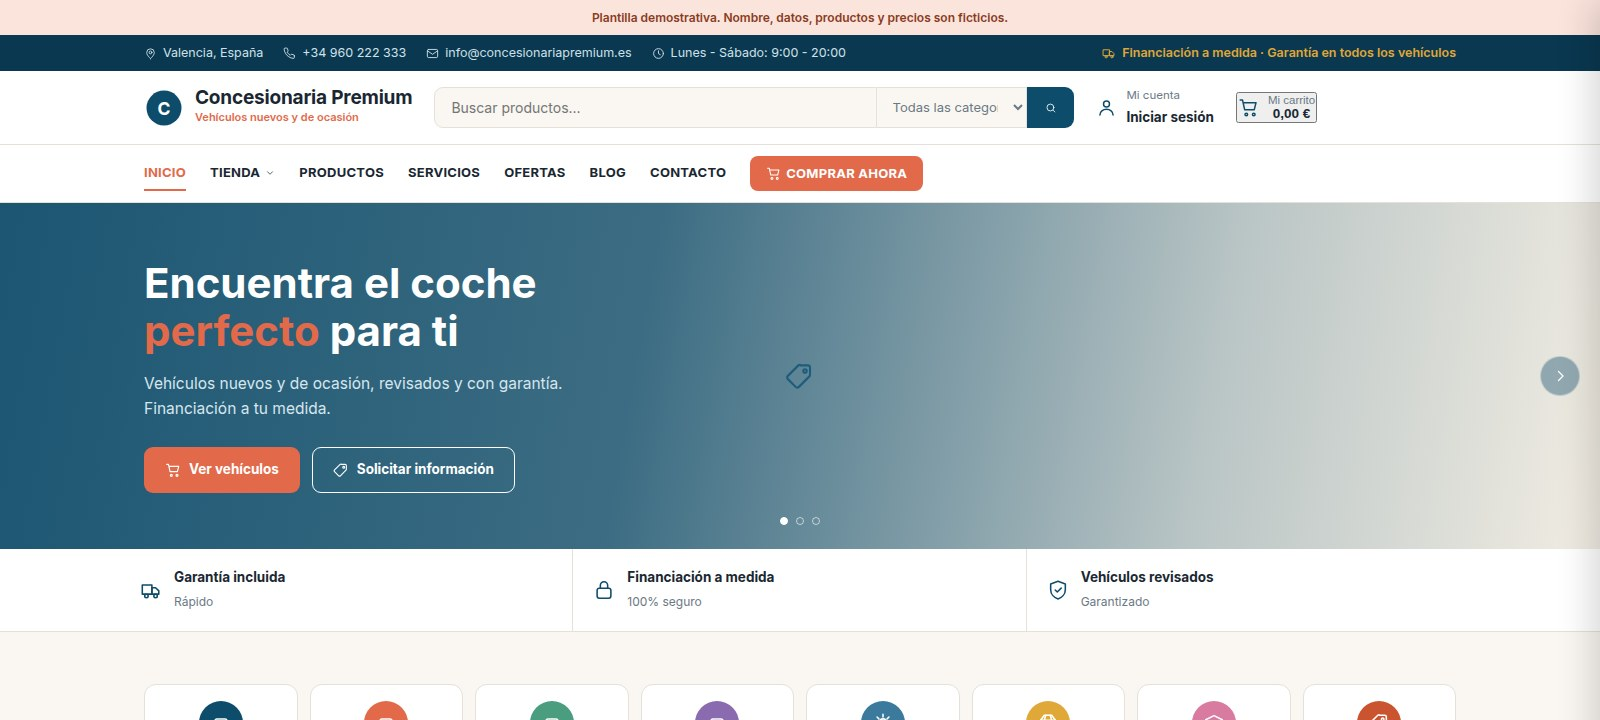
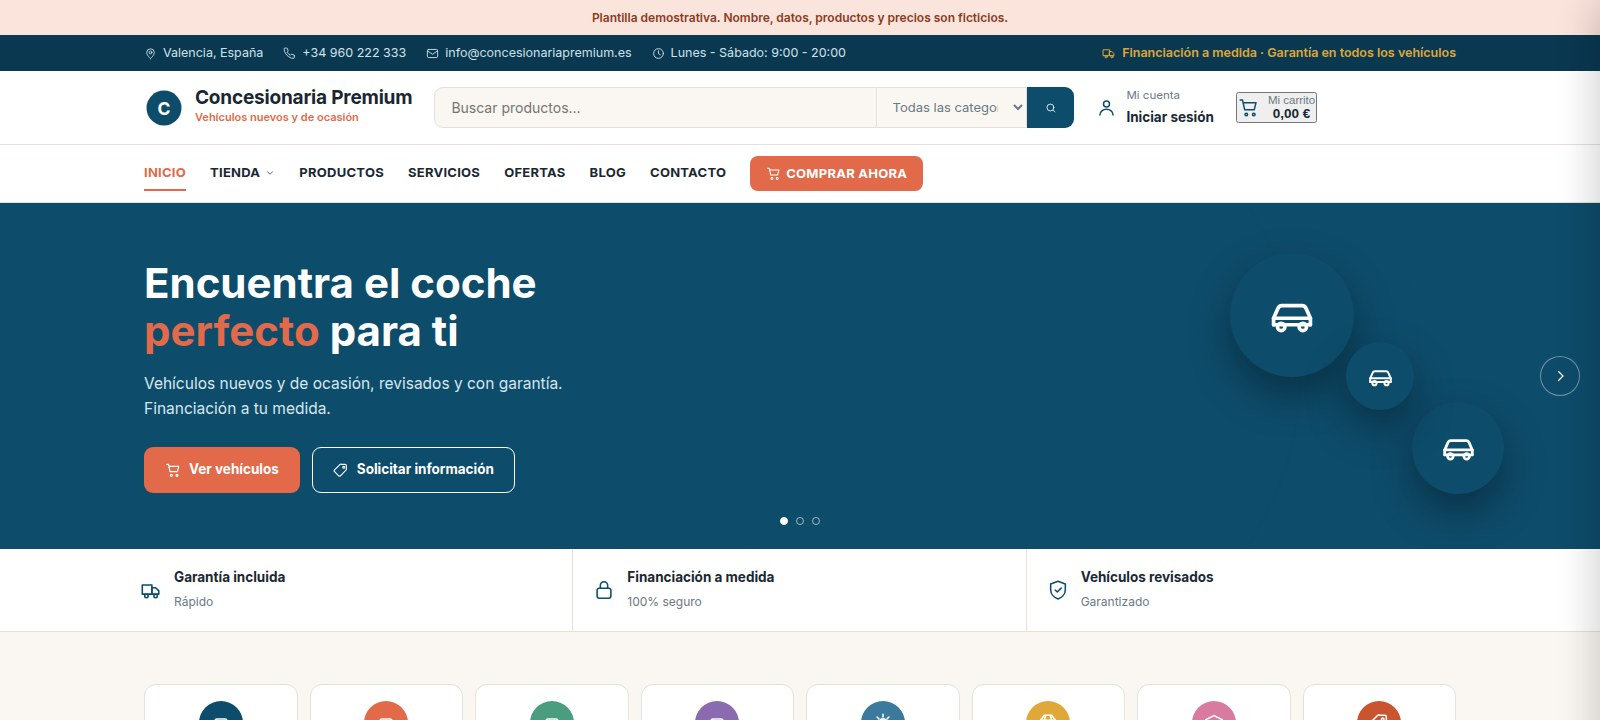
Mejora la portada de las 14 categorias tipo tienda: collage de iconos en vez de un solo icono plano

diff --git a/public/demos/concesionaria-premium/index.html b/public/demos/concesionaria-premium/index.html
@@ -68,8 +68,8 @@
 
 <!-- Portada -->
 <section class="portada" id="inicio">
-  <div class="portada-lienzo"><div style="width:100%;height:100%;display:flex;align-items:center;justify-content:center;background:var(--crema2);color:var(--azul-cla)"><svg width="30" height="30" viewBox="0 0 24 24" fill="none" stroke="currentColor" stroke-width="1.7" stroke-linecap="round" stroke-linejoin="round" aria-hidden="true"><path d="M12.5 3.5h5.7a1.8 1.8 0 0 1 1.8 1.8v5.7c0 .5-.2 1-.5 1.3l-8.4 8.4a1.8 1.8 0 0 1-2.6 0l-6.2-6.2a1.8 1.8 0 0 1 0-2.6l8.4-8.4c.3-.3.8-.5 1.3-.5z"/><circle cx="16" cy="8" r="1.4"/></svg></div></div>
-  <div class="portada-vel"></div>
+  <div class="portada-lienzo"><svg viewBox="0 0 800 560" preserveAspectRatio="xMidYMid slice" style="width:100%;height:100%" aria-hidden="true"><defs><radialGradient id="hg" cx="62%" cy="46%" r="55%"><stop offset="0%" stop-color="#0e4c6b" stop-opacity=".28"/><stop offset="100%" stop-color="#0e4c6b" stop-opacity="0"/></radialGradient></defs><rect width="800" height="560" fill="var(--azul)"/><circle cx="500" cy="280" r="260" fill="url(#hg)"/><circle cx="500" cy="280" r="210" fill="none" stroke="#0e4c6b" stroke-opacity=".18"/><circle cx="500" cy="280" r="150" fill="none" stroke="#0e4c6b" stroke-opacity=".12"/></svg></div>
+  <div class="portada-figuras" aria-hidden="true"><span class="figura figura-0" style="width:124px;height:124px;background:#0e4c6b"><svg width="52" height="52" viewBox="0 0 24 24" fill="none" stroke="currentColor" stroke-width="1.7" stroke-linecap="round" stroke-linejoin="round" aria-hidden="true"><path d="M3.5 16.5v-3l2-4.5a2 2 0 0 1 1.9-1.3h9.2a2 2 0 0 1 1.9 1.3l2 4.5v3"/><path d="M3.5 16.5h17M3.5 13.5h17"/><circle cx="7" cy="17.5" r="1.7"/><circle cx="17" cy="17.5" r="1.7"/></svg></span><span class="figura figura-1" style="width:92px;height:92px;background:#0e4c6b"><svg width="39" height="39" viewBox="0 0 24 24" fill="none" stroke="currentColor" stroke-width="1.7" stroke-linecap="round" stroke-linejoin="round" aria-hidden="true"><path d="M3.5 16.5v-3l2-4.5a2 2 0 0 1 1.9-1.3h9.2a2 2 0 0 1 1.9 1.3l2 4.5v3"/><path d="M3.5 16.5h17M3.5 13.5h17"/><circle cx="7" cy="17.5" r="1.7"/><circle cx="17" cy="17.5" r="1.7"/></svg></span><span class="figura figura-2" style="width:68px;height:68px;background:#0e4c6b"><svg width="29" height="29" viewBox="0 0 24 24" fill="none" stroke="currentColor" stroke-width="1.7" stroke-linecap="round" stroke-linejoin="round" aria-hidden="true"><path d="M3.5 16.5v-3l2-4.5a2 2 0 0 1 1.9-1.3h9.2a2 2 0 0 1 1.9 1.3l2 4.5v3"/><path d="M3.5 16.5h17M3.5 13.5h17"/><circle cx="7" cy="17.5" r="1.7"/><circle cx="17" cy="17.5" r="1.7"/></svg></span></div>  <div class="portada-vel"></div>
   <div class="env">
     <div class="portada-in">
       <h1>Encuentra el coche <em>perfecto</em> para ti</h1>

diff --git a/public/demos/alquiler-coches-premium/index.html b/public/demos/alquiler-coches-premium/index.html
@@ -68,8 +68,8 @@
 
 <!-- Portada -->
 <section class="portada" id="inicio">
-  <div class="portada-lienzo"><div style="width:100%;height:100%;display:flex;align-items:center;justify-content:center;background:var(--crema2);color:var(--azul-cla)"><svg width="30" height="30" viewBox="0 0 24 24" fill="none" stroke="currentColor" stroke-width="1.7" stroke-linecap="round" stroke-linejoin="round" aria-hidden="true"><path d="M12.5 3.5h5.7a1.8 1.8 0 0 1 1.8 1.8v5.7c0 .5-.2 1-.5 1.3l-8.4 8.4a1.8 1.8 0 0 1-2.6 0l-6.2-6.2a1.8 1.8 0 0 1 0-2.6l8.4-8.4c.3-.3.8-.5 1.3-.5z"/><circle cx="16" cy="8" r="1.4"/></svg></div></div>
-  <div class="portada-vel"></div>
+  <div class="portada-lienzo"><svg viewBox="0 0 800 560" preserveAspectRatio="xMidYMid slice" style="width:100%;height:100%" aria-hidden="true"><defs><radialGradient id="hg" cx="62%" cy="46%" r="55%"><stop offset="0%" stop-color="#e0a838" stop-opacity=".28"/><stop offset="100%" stop-color="#e0a838" stop-opacity="0"/></radialGradient></defs><rect width="800" height="560" fill="var(--azul)"/><circle cx="500" cy="280" r="260" fill="url(#hg)"/><circle cx="500" cy="280" r="210" fill="none" stroke="#e0a838" stroke-opacity=".18"/><circle cx="500" cy="280" r="150" fill="none" stroke="#e0a838" stroke-opacity=".12"/></svg></div>
+  <div class="portada-figuras" aria-hidden="true"><span class="figura figura-0" style="width:124px;height:124px;background:#e0a838"><svg width="52" height="52" viewBox="0 0 24 24" fill="none" stroke="currentColor" stroke-width="1.7" stroke-linecap="round" stroke-linejoin="round" aria-hidden="true"><path d="M3.5 16.5v-3l2-4.5a2 2 0 0 1 1.9-1.3h9.2a2 2 0 0 1 1.9 1.3l2 4.5v3"/><path d="M3.5 16.5h17M3.5 13.5h17"/><circle cx="7" cy="17.5" r="1.7"/><circle cx="17" cy="17.5" r="1.7"/></svg></span><span class="figura figura-1" style="width:92px;height:92px;background:#e0a838"><svg width="39" height="39" viewBox="0 0 24 24" fill="none" stroke="currentColor" stroke-width="1.7" stroke-linecap="round" stroke-linejoin="round" aria-hidden="true"><path d="M3.5 16.5v-3l2-4.5a2 2 0 0 1 1.9-1.3h9.2a2 2 0 0 1 1.9 1.3l2 4.5v3"/><path d="M3.5 16.5h17M3.5 13.5h17"/><circle cx="7" cy="17.5" r="1.7"/><circle cx="17" cy="17.5" r="1.7"/></svg></span><span class="figura figura-2" style="width:68px;height:68px;background:#e0a838"><svg width="29" height="29" viewBox="0 0 24 24" fill="none" stroke="currentColor" stroke-width="1.7" stroke-linecap="round" stroke-linejoin="round" aria-hidden="true"><path d="M3.5 16.5v-3l2-4.5a2 2 0 0 1 1.9-1.3h9.2a2 2 0 0 1 1.9 1.3l2 4.5v3"/><path d="M3.5 16.5h17M3.5 13.5h17"/><circle cx="7" cy="17.5" r="1.7"/><circle cx="17" cy="17.5" r="1.7"/></svg></span></div>  <div class="portada-vel"></div>
   <div class="env">
     <div class="portada-in">
       <h1>Tu viaje, <em>nuestra</em> pasión</h1>

diff --git a/public/demos/pesca-premium/index.html b/public/demos/pesca-premium/index.html
@@ -68,8 +68,8 @@
 
 <!-- Portada -->
 <section class="portada" id="inicio">
-  <div class="portada-lienzo"><div style="width:100%;height:100%;display:flex;align-items:center;justify-content:center;background:var(--crema2);color:var(--azul-cla)"><svg width="30" height="30" viewBox="0 0 24 24" fill="none" stroke="currentColor" stroke-width="1.7" stroke-linecap="round" stroke-linejoin="round" aria-hidden="true"><path d="M12.5 3.5h5.7a1.8 1.8 0 0 1 1.8 1.8v5.7c0 .5-.2 1-.5 1.3l-8.4 8.4a1.8 1.8 0 0 1-2.6 0l-6.2-6.2a1.8 1.8 0 0 1 0-2.6l8.4-8.4c.3-.3.8-.5 1.3-.5z"/><circle cx="16" cy="8" r="1.4"/></svg></div></div>
-  <div class="portada-vel"></div>
+  <div class="portada-lienzo"><svg viewBox="0 0 800 560" preserveAspectRatio="xMidYMid slice" style="width:100%;height:100%" aria-hidden="true"><defs><radialGradient id="hg" cx="62%" cy="46%" r="55%"><stop offset="0%" stop-color="#0e4c6b" stop-opacity=".28"/><stop offset="100%" stop-color="#0e4c6b" stop-opacity="0"/></radialGradient></defs><rect width="800" height="560" fill="var(--azul)"/><circle cx="500" cy="280" r="260" fill="url(#hg)"/><circle cx="500" cy="280" r="210" fill="none" stroke="#0e4c6b" stroke-opacity=".18"/><circle cx="500" cy="280" r="150" fill="none" stroke="#0e4c6b" stroke-opacity=".12"/></svg></div>
+  <div class="portada-figuras" aria-hidden="true"><span class="figura figura-0" style="width:124px;height:124px;background:#0e4c6b"><svg width="52" height="52" viewBox="0 0 24 24" fill="none" stroke="currentColor" stroke-width="1.7" stroke-linecap="round" stroke-linejoin="round" aria-hidden="true"><path d="M3 12c3-4 8-6 12-4.5 2 .7 4 2.4 6 4.5-2 2.1-4 3.8-6 4.5-4 1.5-9-.5-12-4.5z"/><path d="M15 8.5 18 5M15 15.5l3 3"/><circle cx="7.5" cy="11" r="1"/></svg></span><span class="figura figura-1" style="width:92px;height:92px;background:#0e4c6b"><svg width="39" height="39" viewBox="0 0 24 24" fill="none" stroke="currentColor" stroke-width="1.7" stroke-linecap="round" stroke-linejoin="round" aria-hidden="true"><path d="M3 12c3-4 8-6 12-4.5 2 .7 4 2.4 6 4.5-2 2.1-4 3.8-6 4.5-4 1.5-9-.5-12-4.5z"/><path d="M15 8.5 18 5M15 15.5l3 3"/><circle cx="7.5" cy="11" r="1"/></svg></span><span class="figura figura-2" style="width:68px;height:68px;background:#0e4c6b"><svg width="29" height="29" viewBox="0 0 24 24" fill="none" stroke="currentColor" stroke-width="1.7" stroke-linecap="round" stroke-linejoin="round" aria-hidden="true"><path d="M3 12c3-4 8-6 12-4.5 2 .7 4 2.4 6 4.5-2 2.1-4 3.8-6 4.5-4 1.5-9-.5-12-4.5z"/><path d="M15 8.5 18 5M15 15.5l3 3"/><circle cx="7.5" cy="11" r="1"/></svg></span></div>  <div class="portada-vel"></div>
   <div class="env">
     <div class="portada-in">
       <h1>Todo lo que <em>necesitas</em> para pescar</h1>

diff --git a/public/demos/perfumeria-premium/index.html b/public/demos/perfumeria-premium/index.html
@@ -68,8 +68,8 @@
 
 <!-- Portada -->
 <section class="portada" id="inicio">
-  <div class="portada-lienzo"><div style="width:100%;height:100%;display:flex;align-items:center;justify-content:center;background:var(--crema2);color:var(--azul-cla)"><svg width="30" height="30" viewBox="0 0 24 24" fill="none" stroke="currentColor" stroke-width="1.7" stroke-linecap="round" stroke-linejoin="round" aria-hidden="true"><path d="M12.5 3.5h5.7a1.8 1.8 0 0 1 1.8 1.8v5.7c0 .5-.2 1-.5 1.3l-8.4 8.4a1.8 1.8 0 0 1-2.6 0l-6.2-6.2a1.8 1.8 0 0 1 0-2.6l8.4-8.4c.3-.3.8-.5 1.3-.5z"/><circle cx="16" cy="8" r="1.4"/></svg></div></div>
-  <div class="portada-vel"></div>
+  <div class="portada-lienzo"><svg viewBox="0 0 800 560" preserveAspectRatio="xMidYMid slice" style="width:100%;height:100%" aria-hidden="true"><defs><radialGradient id="hg" cx="62%" cy="46%" r="55%"><stop offset="0%" stop-color="#d97ba0" stop-opacity=".28"/><stop offset="100%" stop-color="#d97ba0" stop-opacity="0"/></radialGradient></defs><rect width="800" height="560" fill="var(--azul)"/><circle cx="500" cy="280" r="260" fill="url(#hg)"/><circle cx="500" cy="280" r="210" fill="none" stroke="#d97ba0" stroke-opacity=".18"/><circle cx="500" cy="280" r="150" fill="none" stroke="#d97ba0" stroke-opacity=".12"/></svg></div>
+  <div class="portada-figuras" aria-hidden="true"><span class="figura figura-0" style="width:124px;height:124px;background:#d97ba0"><svg width="52" height="52" viewBox="0 0 24 24" fill="none" stroke="currentColor" stroke-width="1.7" stroke-linecap="round" stroke-linejoin="round" aria-hidden="true"><path d="M10 2.5h4v2.8l1.8 2.2c.5.6.7 1.3.7 2.1v9.4a2.5 2.5 0 0 1-2.5 2.5h-4a2.5 2.5 0 0 1-2.5-2.5V9.6c0-.8.2-1.5.7-2.1L10 5.3z"/><path d="M9.5 12.5h5"/></svg></span><span class="figura figura-1" style="width:92px;height:92px;background:#d97ba0"><svg width="39" height="39" viewBox="0 0 24 24" fill="none" stroke="currentColor" stroke-width="1.7" stroke-linecap="round" stroke-linejoin="round" aria-hidden="true"><path d="M10 2.5h4v2.8l1.8 2.2c.5.6.7 1.3.7 2.1v9.4a2.5 2.5 0 0 1-2.5 2.5h-4a2.5 2.5 0 0 1-2.5-2.5V9.6c0-.8.2-1.5.7-2.1L10 5.3z"/><path d="M9.5 12.5h5"/></svg></span><span class="figura figura-2" style="width:68px;height:68px;background:#d97ba0"><svg width="29" height="29" viewBox="0 0 24 24" fill="none" stroke="currentColor" stroke-width="1.7" stroke-linecap="round" stroke-linejoin="round" aria-hidden="true"><path d="M10 2.5h4v2.8l1.8 2.2c.5.6.7 1.3.7 2.1v9.4a2.5 2.5 0 0 1-2.5 2.5h-4a2.5 2.5 0 0 1-2.5-2.5V9.6c0-.8.2-1.5.7-2.1L10 5.3z"/><path d="M9.5 12.5h5"/></svg></span></div>  <div class="portada-vel"></div>
   <div class="env">
     <div class="portada-in">
       <h1>Encuentra tu <em>fragancia</em> perfecta</h1>

diff --git a/public/demos/energia-solar-premium/index.html b/public/demos/energia-solar-premium/index.html
@@ -68,8 +68,8 @@
 
 <!-- Portada -->
 <section class="portada" id="inicio">
-  <div class="portada-lienzo"><div style="width:100%;height:100%;display:flex;align-items:center;justify-content:center;background:var(--crema2);color:var(--azul-cla)"><svg width="30" height="30" viewBox="0 0 24 24" fill="none" stroke="currentColor" stroke-width="1.7" stroke-linecap="round" stroke-linejoin="round" aria-hidden="true"><path d="M12.5 3.5h5.7a1.8 1.8 0 0 1 1.8 1.8v5.7c0 .5-.2 1-.5 1.3l-8.4 8.4a1.8 1.8 0 0 1-2.6 0l-6.2-6.2a1.8 1.8 0 0 1 0-2.6l8.4-8.4c.3-.3.8-.5 1.3-.5z"/><circle cx="16" cy="8" r="1.4"/></svg></div></div>
-  <div class="portada-vel"></div>
+  <div class="portada-lienzo"><svg viewBox="0 0 800 560" preserveAspectRatio="xMidYMid slice" style="width:100%;height:100%" aria-hidden="true"><defs><radialGradient id="hg" cx="62%" cy="46%" r="55%"><stop offset="0%" stop-color="#e0a838" stop-opacity=".28"/><stop offset="100%" stop-color="#e0a838" stop-opacity="0"/></radialGradient></defs><rect width="800" height="560" fill="var(--azul)"/><circle cx="500" cy="280" r="260" fill="url(#hg)"/><circle cx="500" cy="280" r="210" fill="none" stroke="#e0a838" stroke-opacity=".18"/><circle cx="500" cy="280" r="150" fill="none" stroke="#e0a838" stroke-opacity=".12"/></svg></div>
+  <div class="portada-figuras" aria-hidden="true"><span class="figura figura-0" style="width:124px;height:124px;background:#e0a838"><svg width="52" height="52" viewBox="0 0 24 24" fill="none" stroke="currentColor" stroke-width="1.7" stroke-linecap="round" stroke-linejoin="round" aria-hidden="true"><circle cx="12" cy="12" r="4.5"/><path d="M12 2.5v3M12 18.5v3M21.5 12h-3M5.5 12h-3M18.5 5.5l-2 2M7.5 16.5l-2 2M18.5 18.5l-2-2M7.5 7.5l-2-2"/></svg></span><span class="figura figura-1" style="width:92px;height:92px;background:#e0a838"><svg width="39" height="39" viewBox="0 0 24 24" fill="none" stroke="currentColor" stroke-width="1.7" stroke-linecap="round" stroke-linejoin="round" aria-hidden="true"><path d="M9 18.5h6M9.5 21h5"/><path d="M12 3.5a6 6 0 0 0-3.4 10.9c.6.4 1 1.1 1 1.9v.7h4.8v-.7c0-.8.4-1.5 1-1.9A6 6 0 0 0 12 3.5z"/></svg></span><span class="figura figura-2" style="width:68px;height:68px;background:#e0a838"><svg width="29" height="29" viewBox="0 0 24 24" fill="none" stroke="currentColor" stroke-width="1.7" stroke-linecap="round" stroke-linejoin="round" aria-hidden="true"><path d="M9 18.5h6M9.5 21h5"/><path d="M12 3.5a6 6 0 0 0-3.4 10.9c.6.4 1 1.1 1 1.9v.7h4.8v-.7c0-.8.4-1.5 1-1.9A6 6 0 0 0 12 3.5z"/></svg></span></div>  <div class="portada-vel"></div>
   <div class="env">
     <div class="portada-in">
       <h1>Energía solar <em>para un futuro</em> más sostenible</h1>

diff --git a/public/demos/electronica-premium/index.html b/public/demos/electronica-premium/index.html
@@ -68,8 +68,8 @@
 
 <!-- Portada -->
 <section class="portada" id="inicio">
-  <div class="portada-lienzo"><div style="width:100%;height:100%;display:flex;align-items:center;justify-content:center;background:var(--crema2);color:var(--azul-cla)"><svg width="30" height="30" viewBox="0 0 24 24" fill="none" stroke="currentColor" stroke-width="1.7" stroke-linecap="round" stroke-linejoin="round" aria-hidden="true"><path d="M12.5 3.5h5.7a1.8 1.8 0 0 1 1.8 1.8v5.7c0 .5-.2 1-.5 1.3l-8.4 8.4a1.8 1.8 0 0 1-2.6 0l-6.2-6.2a1.8 1.8 0 0 1 0-2.6l8.4-8.4c.3-.3.8-.5 1.3-.5z"/><circle cx="16" cy="8" r="1.4"/></svg></div></div>
-  <div class="portada-vel"></div>
+  <div class="portada-lienzo"><svg viewBox="0 0 800 560" preserveAspectRatio="xMidYMid slice" style="width:100%;height:100%" aria-hidden="true"><defs><radialGradient id="hg" cx="62%" cy="46%" r="55%"><stop offset="0%" stop-color="#0e4c6b" stop-opacity=".28"/><stop offset="100%" stop-color="#0e4c6b" stop-opacity="0"/></radialGradient></defs><rect width="800" height="560" fill="var(--azul)"/><circle cx="500" cy="280" r="260" fill="url(#hg)"/><circle cx="500" cy="280" r="210" fill="none" stroke="#0e4c6b" stroke-opacity=".18"/><circle cx="500" cy="280" r="150" fill="none" stroke="#0e4c6b" stroke-opacity=".12"/></svg></div>
+  <div class="portada-figuras" aria-hidden="true"><span class="figura figura-0" style="width:124px;height:124px;background:#0e4c6b"><svg width="52" height="52" viewBox="0 0 24 24" fill="none" stroke="currentColor" stroke-width="1.7" stroke-linecap="round" stroke-linejoin="round" aria-hidden="true"><path d="M9 18.5h6M9.5 21h5"/><path d="M12 3.5a6 6 0 0 0-3.4 10.9c.6.4 1 1.1 1 1.9v.7h4.8v-.7c0-.8.4-1.5 1-1.9A6 6 0 0 0 12 3.5z"/></svg></span><span class="figura figura-1" style="width:92px;height:92px;background:#0e4c6b"><svg width="39" height="39" viewBox="0 0 24 24" fill="none" stroke="currentColor" stroke-width="1.7" stroke-linecap="round" stroke-linejoin="round" aria-hidden="true"><path d="M3 8.5 12 4l9 4.5-9 4.5-9-4.5z"/><path d="M3 8.5v7L12 20l9-4.5v-7"/><path d="M12 13v7"/></svg></span><span class="figura figura-2" style="width:68px;height:68px;background:#0e4c6b"><svg width="29" height="29" viewBox="0 0 24 24" fill="none" stroke="currentColor" stroke-width="1.7" stroke-linecap="round" stroke-linejoin="round" aria-hidden="true"><path d="M9 18.5h6M9.5 21h5"/><path d="M12 3.5a6 6 0 0 0-3.4 10.9c.6.4 1 1.1 1 1.9v.7h4.8v-.7c0-.8.4-1.5 1-1.9A6 6 0 0 0 12 3.5z"/></svg></span></div>  <div class="portada-vel"></div>
   <div class="env">
     <div class="portada-in">
       <h1>La mejor <em>tecnología</em> al mejor precio</h1>

diff --git a/public/demos/muebles-decoracion-premium/index.html b/public/demos/muebles-decoracion-premium/index.html
@@ -68,8 +68,8 @@
 
 <!-- Portada -->
 <section class="portada" id="inicio">
-  <div class="portada-lienzo"><div style="width:100%;height:100%;display:flex;align-items:center;justify-content:center;background:var(--crema2);color:var(--azul-cla)"><svg width="30" height="30" viewBox="0 0 24 24" fill="none" stroke="currentColor" stroke-width="1.7" stroke-linecap="round" stroke-linejoin="round" aria-hidden="true"><path d="M12.5 3.5h5.7a1.8 1.8 0 0 1 1.8 1.8v5.7c0 .5-.2 1-.5 1.3l-8.4 8.4a1.8 1.8 0 0 1-2.6 0l-6.2-6.2a1.8 1.8 0 0 1 0-2.6l8.4-8.4c.3-.3.8-.5 1.3-.5z"/><circle cx="16" cy="8" r="1.4"/></svg></div></div>
-  <div class="portada-vel"></div>
+  <div class="portada-lienzo"><svg viewBox="0 0 800 560" preserveAspectRatio="xMidYMid slice" style="width:100%;height:100%" aria-hidden="true"><defs><radialGradient id="hg" cx="62%" cy="46%" r="55%"><stop offset="0%" stop-color="#e2694a" stop-opacity=".28"/><stop offset="100%" stop-color="#e2694a" stop-opacity="0"/></radialGradient></defs><rect width="800" height="560" fill="var(--azul)"/><circle cx="500" cy="280" r="260" fill="url(#hg)"/><circle cx="500" cy="280" r="210" fill="none" stroke="#e2694a" stroke-opacity=".18"/><circle cx="500" cy="280" r="150" fill="none" stroke="#e2694a" stroke-opacity=".12"/></svg></div>
+  <div class="portada-figuras" aria-hidden="true"><span class="figura figura-0" style="width:124px;height:124px;background:#e2694a"><svg width="52" height="52" viewBox="0 0 24 24" fill="none" stroke="currentColor" stroke-width="1.7" stroke-linecap="round" stroke-linejoin="round" aria-hidden="true"><path d="M5 12V8a2 2 0 0 1 2-2h10a2 2 0 0 1 2 2v4"/><path d="M3.5 12h17v5a1.5 1.5 0 0 1-1.5 1.5H5A1.5 1.5 0 0 1 3.5 17z"/><path d="M4.5 18.5V20M19.5 18.5V20"/></svg></span><span class="figura figura-1" style="width:92px;height:92px;background:#e2694a"><svg width="39" height="39" viewBox="0 0 24 24" fill="none" stroke="currentColor" stroke-width="1.7" stroke-linecap="round" stroke-linejoin="round" aria-hidden="true"><path d="M3 20v-9M3 15h18v5M21 20v-5"/><path d="M6.5 11V8.5h11V11"/><circle cx="8" cy="12.8" r="1.6"/></svg></span><span class="figura figura-2" style="width:68px;height:68px;background:#e2694a"><svg width="29" height="29" viewBox="0 0 24 24" fill="none" stroke="currentColor" stroke-width="1.7" stroke-linecap="round" stroke-linejoin="round" aria-hidden="true"><path d="M3 8.5 12 4l9 4.5-9 4.5-9-4.5z"/><path d="M3 8.5v7L12 20l9-4.5v-7"/><path d="M12 13v7"/></svg></span></div>  <div class="portada-vel"></div>
   <div class="env">
     <div class="portada-in">
       <h1>Diseño y confort <em>para</em> tu hogar</h1>

diff --git a/public/demos/materiales-construccion-premium/index.html b/public/demos/materiales-construccion-premium/index.html
@@ -68,8 +68,8 @@
 
 <!-- Portada -->
 <section class="portada" id="inicio">
-  <div class="portada-lienzo"><div style="width:100%;height:100%;display:flex;align-items:center;justify-content:center;background:var(--crema2);color:var(--azul-cla)"><svg width="30" height="30" viewBox="0 0 24 24" fill="none" stroke="currentColor" stroke-width="1.7" stroke-linecap="round" stroke-linejoin="round" aria-hidden="true"><path d="M12.5 3.5h5.7a1.8 1.8 0 0 1 1.8 1.8v5.7c0 .5-.2 1-.5 1.3l-8.4 8.4a1.8 1.8 0 0 1-2.6 0l-6.2-6.2a1.8 1.8 0 0 1 0-2.6l8.4-8.4c.3-.3.8-.5 1.3-.5z"/><circle cx="16" cy="8" r="1.4"/></svg></div></div>
-  <div class="portada-vel"></div>
+  <div class="portada-lienzo"><svg viewBox="0 0 800 560" preserveAspectRatio="xMidYMid slice" style="width:100%;height:100%" aria-hidden="true"><defs><radialGradient id="hg" cx="62%" cy="46%" r="55%"><stop offset="0%" stop-color="#e2694a" stop-opacity=".28"/><stop offset="100%" stop-color="#e2694a" stop-opacity="0"/></radialGradient></defs><rect width="800" height="560" fill="var(--azul)"/><circle cx="500" cy="280" r="260" fill="url(#hg)"/><circle cx="500" cy="280" r="210" fill="none" stroke="#e2694a" stroke-opacity=".18"/><circle cx="500" cy="280" r="150" fill="none" stroke="#e2694a" stroke-opacity=".12"/></svg></div>
+  <div class="portada-figuras" aria-hidden="true"><span class="figura figura-0" style="width:124px;height:124px;background:#e2694a"><svg width="52" height="52" viewBox="0 0 24 24" fill="none" stroke="currentColor" stroke-width="1.7" stroke-linecap="round" stroke-linejoin="round" aria-hidden="true"><rect x="2.5" y="6" width="19" height="12" rx="1.4"/><path d="M2.5 12h6M12.5 6v6M8.5 12v6M16.5 12v6M12.5 12h9"/></svg></span><span class="figura figura-1" style="width:92px;height:92px;background:#e2694a"><svg width="39" height="39" viewBox="0 0 24 24" fill="none" stroke="currentColor" stroke-width="1.7" stroke-linecap="round" stroke-linejoin="round" aria-hidden="true"><rect x="2.5" y="6" width="19" height="12" rx="1.4"/><path d="M2.5 12h6M12.5 6v6M8.5 12v6M16.5 12v6M12.5 12h9"/></svg></span><span class="figura figura-2" style="width:68px;height:68px;background:#e2694a"><svg width="29" height="29" viewBox="0 0 24 24" fill="none" stroke="currentColor" stroke-width="1.7" stroke-linecap="round" stroke-linejoin="round" aria-hidden="true"><path d="M6 3v4M4 5h4M18 15.5 8.5 6a3 3 0 1 0-2.5 2.5L15.5 18a1.8 1.8 0 0 0 2.5 0l0-.01a1.8 1.8 0 0 0 0-2.49z"/></svg></span></div>  <div class="portada-vel"></div>
   <div class="env">
     <div class="portada-in">
       <h1>Materiales de <em>construcción</em> para cada proyecto</h1>

diff --git a/public/demos/piezas-moto-premium/index.html b/public/demos/piezas-moto-premium/index.html
@@ -68,8 +68,8 @@
 
 <!-- Portada -->
 <section class="portada" id="inicio">
-  <div class="portada-lienzo"><div style="width:100%;height:100%;display:flex;align-items:center;justify-content:center;background:var(--crema2);color:var(--azul-cla)"><svg width="30" height="30" viewBox="0 0 24 24" fill="none" stroke="currentColor" stroke-width="1.7" stroke-linecap="round" stroke-linejoin="round" aria-hidden="true"><path d="M12.5 3.5h5.7a1.8 1.8 0 0 1 1.8 1.8v5.7c0 .5-.2 1-.5 1.3l-8.4 8.4a1.8 1.8 0 0 1-2.6 0l-6.2-6.2a1.8 1.8 0 0 1 0-2.6l8.4-8.4c.3-.3.8-.5 1.3-.5z"/><circle cx="16" cy="8" r="1.4"/></svg></div></div>
-  <div class="portada-vel"></div>
+  <div class="portada-lienzo"><svg viewBox="0 0 800 560" preserveAspectRatio="xMidYMid slice" style="width:100%;height:100%" aria-hidden="true"><defs><radialGradient id="hg" cx="62%" cy="46%" r="55%"><stop offset="0%" stop-color="#e2694a" stop-opacity=".28"/><stop offset="100%" stop-color="#e2694a" stop-opacity="0"/></radialGradient></defs><rect width="800" height="560" fill="var(--azul)"/><circle cx="500" cy="280" r="260" fill="url(#hg)"/><circle cx="500" cy="280" r="210" fill="none" stroke="#e2694a" stroke-opacity=".18"/><circle cx="500" cy="280" r="150" fill="none" stroke="#e2694a" stroke-opacity=".12"/></svg></div>
+  <div class="portada-figuras" aria-hidden="true"><span class="figura figura-0" style="width:124px;height:124px;background:#e2694a"><svg width="52" height="52" viewBox="0 0 24 24" fill="none" stroke="currentColor" stroke-width="1.7" stroke-linecap="round" stroke-linejoin="round" aria-hidden="true"><path d="M4 9 8 3.5h8L20 9l-8 11.5z"/><path d="M4 9h16M9.5 3.5 8 9l4 11.5 4-11.5-1.5-5.5"/></svg></span><span class="figura figura-1" style="width:92px;height:92px;background:#e2694a"><svg width="39" height="39" viewBox="0 0 24 24" fill="none" stroke="currentColor" stroke-width="1.7" stroke-linecap="round" stroke-linejoin="round" aria-hidden="true"><path d="M9 18.5h6M9.5 21h5"/><path d="M12 3.5a6 6 0 0 0-3.4 10.9c.6.4 1 1.1 1 1.9v.7h4.8v-.7c0-.8.4-1.5 1-1.9A6 6 0 0 0 12 3.5z"/></svg></span><span class="figura figura-2" style="width:68px;height:68px;background:#e2694a"><svg width="29" height="29" viewBox="0 0 24 24" fill="none" stroke="currentColor" stroke-width="1.7" stroke-linecap="round" stroke-linejoin="round" aria-hidden="true"><circle cx="5.5" cy="17" r="3"/><circle cx="18.5" cy="17" r="3"/><path d="M5.5 17 9 9.5h5l3 3.5h2M9 9.5 7.5 6h-2M13 13l1.5-3.5"/></svg></span></div>  <div class="portada-vel"></div>
   <div class="env">
     <div class="portada-in">
       <h1>Piezas y recambios <em>para</em> tu moto</h1>

diff --git a/public/demos/fruteria-premium/index.html b/public/demos/fruteria-premium/index.html
@@ -68,8 +68,8 @@
 
 <!-- Portada -->
 <section class="portada" id="inicio">
-  <div class="portada-lienzo"><div style="width:100%;height:100%;display:flex;align-items:center;justify-content:center;background:var(--crema2);color:var(--azul-cla)"><svg width="30" height="30" viewBox="0 0 24 24" fill="none" stroke="currentColor" stroke-width="1.7" stroke-linecap="round" stroke-linejoin="round" aria-hidden="true"><path d="M12.5 3.5h5.7a1.8 1.8 0 0 1 1.8 1.8v5.7c0 .5-.2 1-.5 1.3l-8.4 8.4a1.8 1.8 0 0 1-2.6 0l-6.2-6.2a1.8 1.8 0 0 1 0-2.6l8.4-8.4c.3-.3.8-.5 1.3-.5z"/><circle cx="16" cy="8" r="1.4"/></svg></div></div>
-  <div class="portada-vel"></div>
+  <div class="portada-lienzo"><svg viewBox="0 0 800 560" preserveAspectRatio="xMidYMid slice" style="width:100%;height:100%" aria-hidden="true"><defs><radialGradient id="hg" cx="62%" cy="46%" r="55%"><stop offset="0%" stop-color="#e2694a" stop-opacity=".28"/><stop offset="100%" stop-color="#e2694a" stop-opacity="0"/></radialGradient></defs><rect width="800" height="560" fill="var(--azul)"/><circle cx="500" cy="280" r="260" fill="url(#hg)"/><circle cx="500" cy="280" r="210" fill="none" stroke="#e2694a" stroke-opacity=".18"/><circle cx="500" cy="280" r="150" fill="none" stroke="#e2694a" stroke-opacity=".12"/></svg></div>
+  <div class="portada-figuras" aria-hidden="true"><span class="figura figura-0" style="width:124px;height:124px;background:#e2694a"><svg width="52" height="52" viewBox="0 0 24 24" fill="none" stroke="currentColor" stroke-width="1.7" stroke-linecap="round" stroke-linejoin="round" aria-hidden="true"><path d="M12 8.5c-3-3-8-1.5-8 3.5 0 4.5 3.5 8.5 6.5 8.5 1 0 1.5-.4 1.5-.4s.5.4 1.5.4c3 0 6.5-4 6.5-8.5 0-5-5-6.5-8-3.5z"/><path d="M12 8.5V5M10 4c.5-1 2-1.5 3-1"/></svg></span><span class="figura figura-1" style="width:92px;height:92px;background:#e2694a"><svg width="39" height="39" viewBox="0 0 24 24" fill="none" stroke="currentColor" stroke-width="1.7" stroke-linecap="round" stroke-linejoin="round" aria-hidden="true"><path d="M4 20c8-1 14-7 15-16-9 1-15 7-16 16z"/><path d="M6 18c3-4 7-8 12-11"/></svg></span><span class="figura figura-2" style="width:68px;height:68px;background:#e2694a"><svg width="29" height="29" viewBox="0 0 24 24" fill="none" stroke="currentColor" stroke-width="1.7" stroke-linecap="round" stroke-linejoin="round" aria-hidden="true"><path d="M3 8.5 12 4l9 4.5-9 4.5-9-4.5z"/><path d="M3 8.5v7L12 20l9-4.5v-7"/><path d="M12 13v7"/></svg></span></div>  <div class="portada-vel"></div>
   <div class="env">
     <div class="portada-in">
       <h1>Los mejores <em>productos</em> frescos, cada día</h1>

diff --git a/public/demos/piezas-auto-premium/index.html b/public/demos/piezas-auto-premium/index.html
@@ -68,8 +68,8 @@
 
 <!-- Portada -->
 <section class="portada" id="inicio">
-  <div class="portada-lienzo"><div style="width:100%;height:100%;display:flex;align-items:center;justify-content:center;background:var(--crema2);color:var(--azul-cla)"><svg width="30" height="30" viewBox="0 0 24 24" fill="none" stroke="currentColor" stroke-width="1.7" stroke-linecap="round" stroke-linejoin="round" aria-hidden="true"><path d="M12.5 3.5h5.7a1.8 1.8 0 0 1 1.8 1.8v5.7c0 .5-.2 1-.5 1.3l-8.4 8.4a1.8 1.8 0 0 1-2.6 0l-6.2-6.2a1.8 1.8 0 0 1 0-2.6l8.4-8.4c.3-.3.8-.5 1.3-.5z"/><circle cx="16" cy="8" r="1.4"/></svg></div></div>
-  <div class="portada-vel"></div>
+  <div class="portada-lienzo"><svg viewBox="0 0 800 560" preserveAspectRatio="xMidYMid slice" style="width:100%;height:100%" aria-hidden="true"><defs><radialGradient id="hg" cx="62%" cy="46%" r="55%"><stop offset="0%" stop-color="#e2694a" stop-opacity=".28"/><stop offset="100%" stop-color="#e2694a" stop-opacity="0"/></radialGradient></defs><rect width="800" height="560" fill="var(--azul)"/><circle cx="500" cy="280" r="260" fill="url(#hg)"/><circle cx="500" cy="280" r="210" fill="none" stroke="#e2694a" stroke-opacity=".18"/><circle cx="500" cy="280" r="150" fill="none" stroke="#e2694a" stroke-opacity=".12"/></svg></div>
+  <div class="portada-figuras" aria-hidden="true"><span class="figura figura-0" style="width:124px;height:124px;background:#e2694a"><svg width="52" height="52" viewBox="0 0 24 24" fill="none" stroke="currentColor" stroke-width="1.7" stroke-linecap="round" stroke-linejoin="round" aria-hidden="true"><path d="M4 9 8 3.5h8L20 9l-8 11.5z"/><path d="M4 9h16M9.5 3.5 8 9l4 11.5 4-11.5-1.5-5.5"/></svg></span><span class="figura figura-1" style="width:92px;height:92px;background:#e2694a"><svg width="39" height="39" viewBox="0 0 24 24" fill="none" stroke="currentColor" stroke-width="1.7" stroke-linecap="round" stroke-linejoin="round" aria-hidden="true"><path d="M9 18.5h6M9.5 21h5"/><path d="M12 3.5a6 6 0 0 0-3.4 10.9c.6.4 1 1.1 1 1.9v.7h4.8v-.7c0-.8.4-1.5 1-1.9A6 6 0 0 0 12 3.5z"/></svg></span><span class="figura figura-2" style="width:68px;height:68px;background:#e2694a"><svg width="29" height="29" viewBox="0 0 24 24" fill="none" stroke="currentColor" stroke-width="1.7" stroke-linecap="round" stroke-linejoin="round" aria-hidden="true"><path d="M3 8.5 12 4l9 4.5-9 4.5-9-4.5z"/><path d="M3 8.5v7L12 20l9-4.5v-7"/><path d="M12 13v7"/></svg></span></div>  <div class="portada-vel"></div>
   <div class="env">
     <div class="portada-in">
       <h1>Las mejores piezas <em>para</em> tu vehículo</h1>

diff --git a/public/demos/instrumentos-musicales-premium/index.html b/public/demos/instrumentos-musicales-premium/index.html
@@ -68,8 +68,8 @@
 
 <!-- Portada -->
 <section class="portada" id="inicio">
-  <div class="portada-lienzo"><div style="width:100%;height:100%;display:flex;align-items:center;justify-content:center;background:var(--crema2);color:var(--azul-cla)"><svg width="30" height="30" viewBox="0 0 24 24" fill="none" stroke="currentColor" stroke-width="1.7" stroke-linecap="round" stroke-linejoin="round" aria-hidden="true"><path d="M12.5 3.5h5.7a1.8 1.8 0 0 1 1.8 1.8v5.7c0 .5-.2 1-.5 1.3l-8.4 8.4a1.8 1.8 0 0 1-2.6 0l-6.2-6.2a1.8 1.8 0 0 1 0-2.6l8.4-8.4c.3-.3.8-.5 1.3-.5z"/><circle cx="16" cy="8" r="1.4"/></svg></div></div>
-  <div class="portada-vel"></div>
+  <div class="portada-lienzo"><svg viewBox="0 0 800 560" preserveAspectRatio="xMidYMid slice" style="width:100%;height:100%" aria-hidden="true"><defs><radialGradient id="hg" cx="62%" cy="46%" r="55%"><stop offset="0%" stop-color="#e2694a" stop-opacity=".28"/><stop offset="100%" stop-color="#e2694a" stop-opacity="0"/></radialGradient></defs><rect width="800" height="560" fill="var(--azul)"/><circle cx="500" cy="280" r="260" fill="url(#hg)"/><circle cx="500" cy="280" r="210" fill="none" stroke="#e2694a" stroke-opacity=".18"/><circle cx="500" cy="280" r="150" fill="none" stroke="#e2694a" stroke-opacity=".12"/></svg></div>
+  <div class="portada-figuras" aria-hidden="true"><span class="figura figura-0" style="width:124px;height:124px;background:#e2694a"><svg width="52" height="52" viewBox="0 0 24 24" fill="none" stroke="currentColor" stroke-width="1.7" stroke-linecap="round" stroke-linejoin="round" aria-hidden="true"><path d="M12 21.5s7-6.2 7-11.1A7 7 0 1 0 5 10.4c0 4.9 7 11.1 7 11.1z"/><circle cx="12" cy="10" r="2.6"/></svg></span><span class="figura figura-1" style="width:92px;height:92px;background:#e2694a"><svg width="39" height="39" viewBox="0 0 24 24" fill="none" stroke="currentColor" stroke-width="1.7" stroke-linecap="round" stroke-linejoin="round" aria-hidden="true"><path d="M12 21.5s7-6.2 7-11.1A7 7 0 1 0 5 10.4c0 4.9 7 11.1 7 11.1z"/><circle cx="12" cy="10" r="2.6"/></svg></span><span class="figura figura-2" style="width:68px;height:68px;background:#e2694a"><svg width="29" height="29" viewBox="0 0 24 24" fill="none" stroke="currentColor" stroke-width="1.7" stroke-linecap="round" stroke-linejoin="round" aria-hidden="true"><path d="M12 21.5s7-6.2 7-11.1A7 7 0 1 0 5 10.4c0 4.9 7 11.1 7 11.1z"/><circle cx="12" cy="10" r="2.6"/></svg></span></div>  <div class="portada-vel"></div>
   <div class="env">
     <div class="portada-in">
       <h1>Tu música, <em>nuestro</em> mundo</h1>
